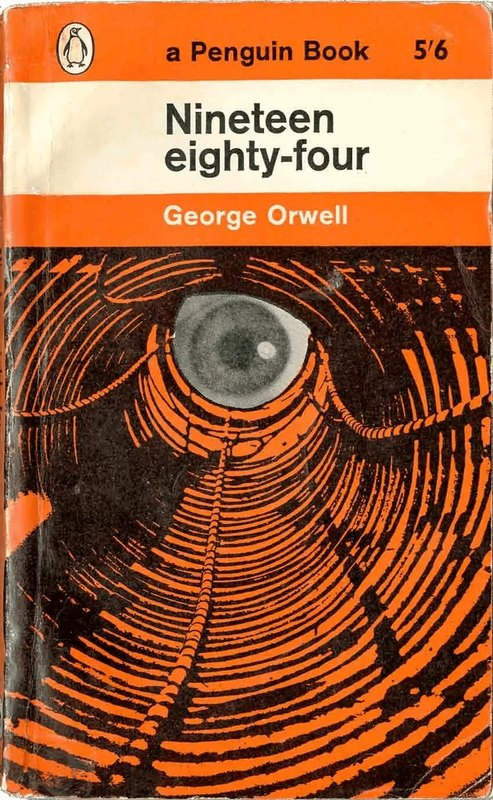
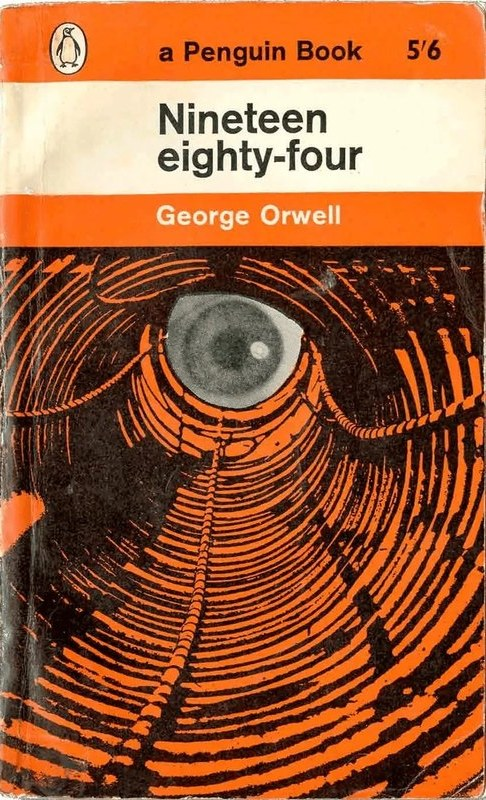
Bookshelf: trim the frames baked into some cover images (the black line round Skin in the Game)

diff --git a/halftone-hero/CLAUDE.md b/halftone-hero/CLAUDE.md
@@ -834,6 +834,10 @@ books.
   axis runs down the spine, so the title and the surname are laid out along it (`flex-direction:
   row` inside `writing-mode: vertical-rl`), title from the top, surname at the foot, centred
   across; with `column` they sat side by side across the spine, which read as odd.
+- **Borders**: publishers' images of white covers can carry a frame baked into the file (Skin in
+  the Game had a 4px black one, which read as a black line round the book; The Joy of x and
+  Thinking in Systems thinner grey ones; slivers on Homo Deus and the scanned 1984). They are
+  trimmed off the saved covers; check a new cover's edges against the pixels just inside them.
 - **Cache**: Vercel serves images for a week (`max-age=604800`), so a cover replaced under the
   same name stayed old in Jules's browser. Every cover link in `books.json` carries the file's
   fingerprint (`?v=` + 8 hex of its MD5), and so does every print link the database's export
